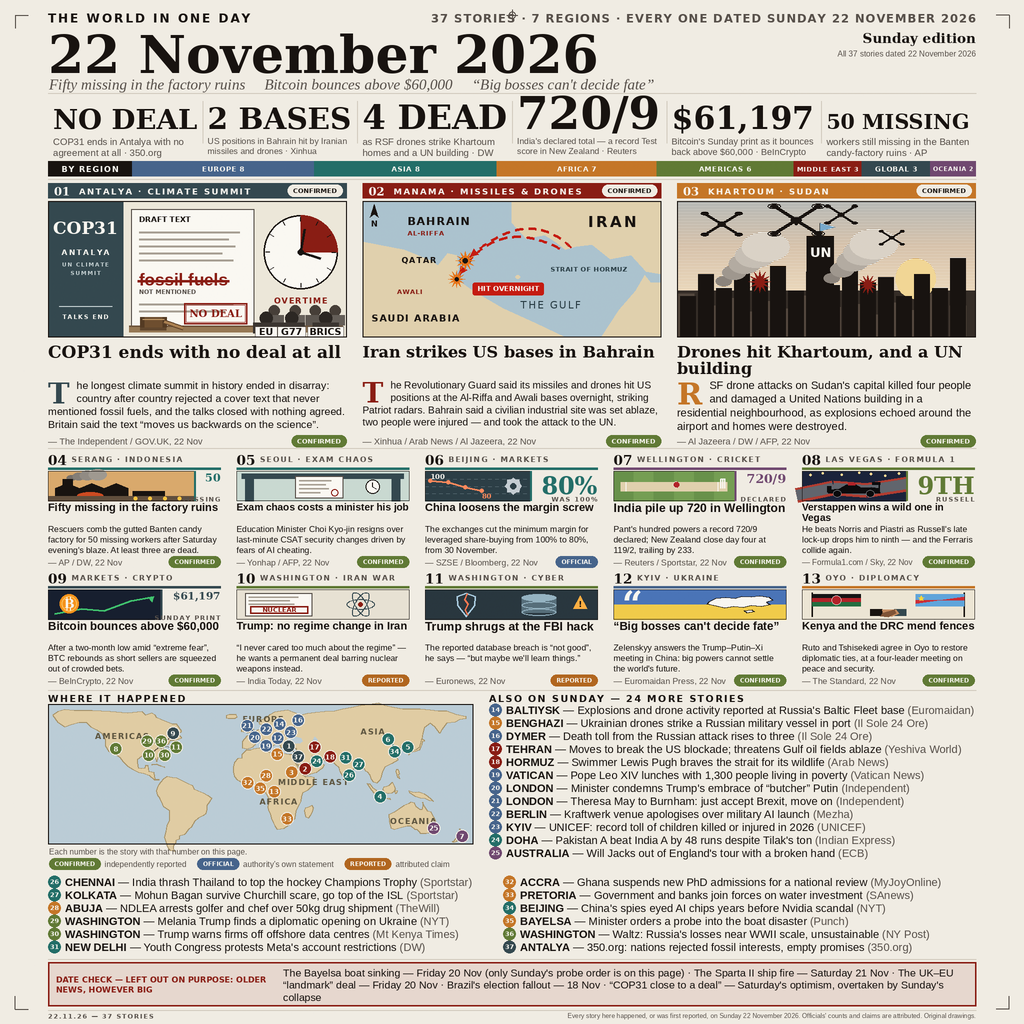
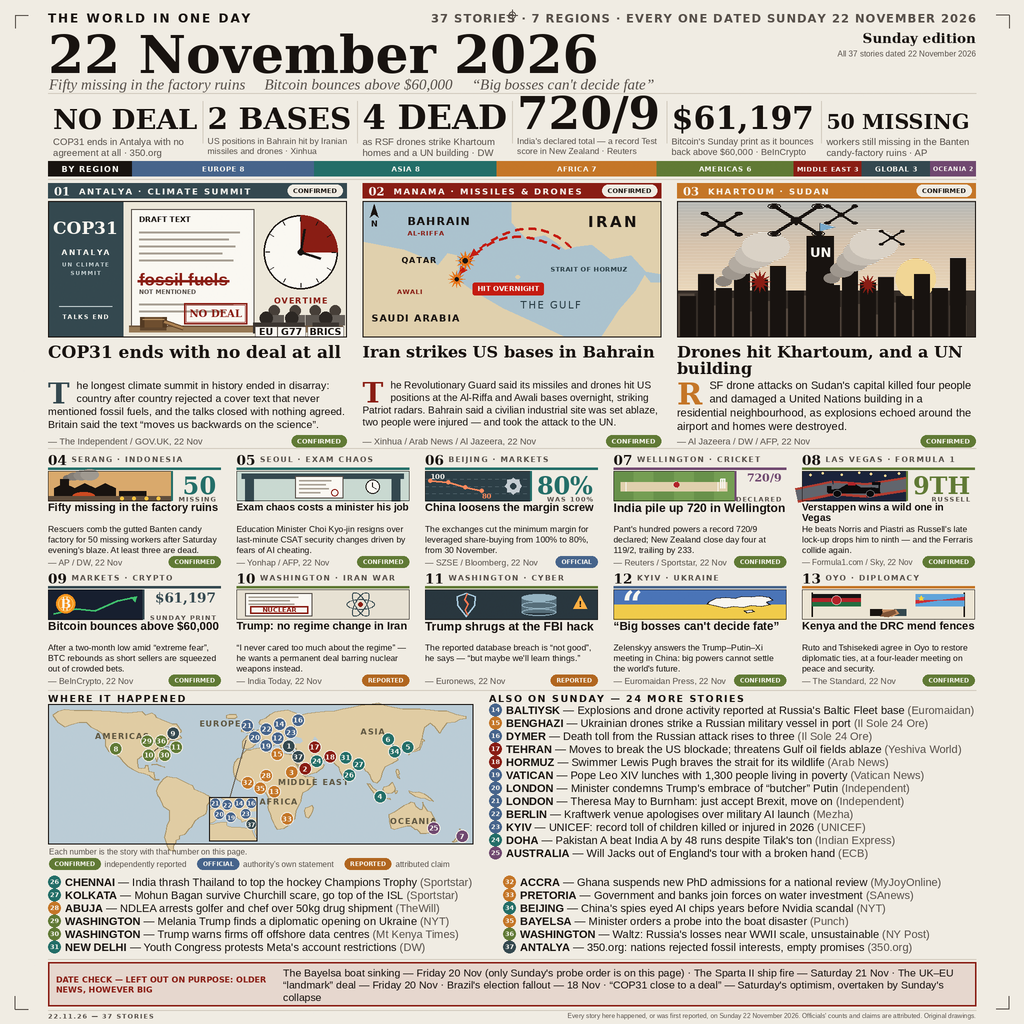
Add files via upload

diff --git a/build.py b/build.py
@@ -58,6 +58,18 @@ two impact bursts are separated, one centred on each base.
 Story content is unchanged apart from the strap's new words,
 which are themselves frozen card headlines.
 
+Version 8 applies exactly two panel fixes to v7, layout only.
+The scene-first stat blocks on cards 04 and 09 were narrower
+than their own caption words, so MISSING and SUNDAY PRINT
+spilled over the scene bands and clipped; those two blocks are
+widened just enough to hold their captions with padding, and
+all stat text now sits 9px inside the card's right edge. On
+the map, the EUROPE label moves into the empty North Atlantic,
+clear of the pins that covered it, and the eight clustered
+Europe pins are redrawn spread out in a zoom inset over the
+empty South Atlantic, tied to the cluster by a thin connector
+line. Story content is unchanged.
+
 The page is drawn programmatically with Pillow at 2048x2048
 (entry-master.png) and downscaled to the 1024x1024 entry.png that
 main.py ships. Every text block is measured and fitted into its zone;
@@ -1403,12 +1415,97 @@ SEA_BITES = [
 
 MAP_LAND = (226, 206, 164)
 MAP_COAST = (168, 148, 106)
-MAP_LABELS = [("AMERICAS", -110, 48), ("EUROPE", 8, 63),
+MAP_LABELS = [("AMERICAS", -110, 48), ("EUROPE", -28, 59),
               ("ASIA", 100, 52), ("AFRICA", 21, -10),
               ("MIDDLE EAST", 50, 7.5), ("OCEANIA", 134, -27)]
+# v8: EUROPE rides in the empty North Atlantic — at its old seat
+# (8, 63) the relaxed pins sat on the word and clipped it.
 
 
-def draw_map(d, x, y, w_, h):
+# v8: the Europe inset. On the main map the eight clustered pins
+# (14/16/19/20/21/22/23/37) relax into one clump however the leader
+# lines fall; the inset redraws just those pins, spread out over a
+# zoom of their own coastline, in a box over the empty South
+# Atlantic (panel-relative seat verified clear of land and of every
+# relaxed main pin), tied to the cluster by a thin connector line.
+EUROPE_INSET_PINS = (14, 16, 19, 20, 21, 22, 23, 37)
+INSET_BOX = (322, 186, 96, 88)    # panel-relative x, y, w, h —
+                                  # right edge clears the AFRICA
+                                  # label's first letter by 5px
+INSET_LON0 = -6                   # the zoom window's west edge
+INSET_LAT_TOP = 59.5              # … and its north edge
+INSET_SCALE = 96 / 43             # px per degree, both axes
+
+
+def draw_europe_inset(img, d, x, y):
+    ix, iy = x + INSET_BOX[0], y + INSET_BOX[1]
+    iw, ih = INSET_BOX[2], INSET_BOX[3]
+
+    def Q(lon, lat):
+        return ((lon - INSET_LON0) * INSET_SCALE,
+                (INSET_LAT_TOP - lat) * INSET_SCALE)
+
+    sub = Image.new("RGB", (iw, ih), OCEAN)
+    sd = ImageDraw.Draw(sub)
+    for poly in COAST:
+        pts = [Q(lon, lat) for lon, lat in poly]
+        sd.polygon(pts, fill=MAP_LAND)
+        sd.line(pts + [pts[0]], fill=MAP_COAST, width=1)
+    for poly in SEA_BITES:
+        sd.polygon([Q(lon, lat) for lon, lat in poly], fill=OCEAN)
+    # the clustered pins, relaxed apart inside the box exactly as
+    # the main map relaxes its own — smaller radius, tighter cap
+    anchors = {n: Q(*PINS[n]) for n in EUROPE_INSET_PINS}
+    pos = dict(anchors)
+    nums = sorted(EUROPE_INSET_PINS)
+    R = 11
+    for _ in range(90):
+        moved = False
+        for i, a in enumerate(nums):
+            for b_ in nums[i + 1:]:
+                ax_, ay_ = pos[a]
+                bx_, by_ = pos[b_]
+                dx, dy = bx_ - ax_, by_ - ay_
+                dist = math.hypot(dx, dy)
+                if dist < 2 * R + 2:
+                    if dist < 0.01:
+                        dx, dy, dist = 1.0, 0.3, math.hypot(1.0, 0.3)
+                    push = (2 * R + 2 - dist) / 2
+                    ux, uy = dx / dist, dy / dist
+                    pos[a] = (ax_ - ux * push, ay_ - uy * push)
+                    pos[b_] = (bx_ + ux * push, by_ + uy * push)
+                    moved = True
+        for n in nums:
+            ax_, ay_ = anchors[n]
+            px_, py_ = pos[n]
+            dx, dy = px_ - ax_, py_ - ay_
+            dd = math.hypot(dx, dy)
+            if dd > 26:
+                px_, py_ = ax_ + dx / dd * 26, ay_ + dy / dd * 26
+            pos[n] = (min(max(px_, R + 1), iw - R - 1),
+                      min(max(py_, R + 1), ih - R - 1))
+        if not moved:
+            break
+    pf = dsans_b(12)
+    for n in nums:
+        ax_, ay_ = anchors[n]
+        px_, py_ = pos[n]
+        if math.hypot(px_ - ax_, py_ - ay_) > 4:
+            sd.line([ax_, ay_, px_, py_], fill=(96, 86, 72), width=1)
+            sd.ellipse([ax_ - 2, ay_ - 2, ax_ + 2, ay_ + 2],
+                       fill=REGION_COLORS[PIN_REGION[n]], outline=PAPER,
+                       width=1)
+    for n in nums:
+        px_, py_ = pos[n]
+        sd.ellipse([px_ - R, py_ - R, px_ + R, py_ + R],
+                   fill=REGION_COLORS[PIN_REGION[n]], outline=PAPER,
+                   width=2)
+        sd.text((px_, py_), str(n), font=pf, fill=WHITE, anchor="mm")
+    img.paste(sub, (ix, iy))
+    d.rectangle([ix, iy, ix + iw, iy + ih], outline=INK, width=2)
+
+
+def draw_map(d, x, y, w_, h, img):
     """World map: drawn coastline polygons in a deeper land tone on
     the ocean panel, region labels on the landmasses, and the pins
     at their true lon/lat anchors — where pins would overlap, the
@@ -1432,6 +1529,14 @@ def draw_map(d, x, y, w_, h):
         tw = tracked_width(d, name, lf, 2)
         _register(f"map label {name}", tw, w_)
         draw_tracked(d, cx - tw / 2, cy - 8, name, lf, 2, (94, 86, 64))
+    # v8: the Europe inset in the South Atlantic, tied to the
+    # cluster's south-west rim off Brittany by a thin connector in
+    # the leader-line colour; drawn before the pins, so the line
+    # passes quietly under them, and the inset box covers its foot
+    ex, ey = P(-6, 44)
+    d.line([x + INSET_BOX[0] + 42, y + INSET_BOX[1], ex, ey],
+           fill=(96, 86, 72), width=2)
+    draw_europe_inset(img, d, x, y)
     # pins: relax overlapping circles apart (deterministic order),
     # never more than 44px from the anchor, never off the panel
     anchors = {num: P(lon, lat) for num, (lon, lat) in PINS.items()}
@@ -1676,6 +1781,16 @@ def render():
                 # about three-fifths, the scene takes at least 65%
                 # of the band; the stat strip keeps the big figure
                 block_w = min(int(block_w * 0.6), card_w - 225)
+            if card["num"] in (4, 9):
+                # v8: the shrunken block was narrower than its own
+                # caption word, so MISSING / SUNDAY PRINT spilled
+                # left over the scene band and clipped against its
+                # bottom edge. Widen the block just enough to hold
+                # the caption with padding on both sides (the
+                # figures themselves stay in the masthead strip).
+                cap0 = CARD_STAT[card["num"]][1]
+                cw0 = tracked_width(d, cap0, dsans_b(13), 2)
+                block_w = max(block_w, int(cw0) + 25)
         draw_card_band(d, x, band_y, card_w - block_w, 60, card)
         if block_w:
             d.rectangle([x + card_w - block_w, band_y, x + card_w,
@@ -1686,17 +1801,20 @@ def render():
             big, capword = CARD_STAT[card["num"]]
             if card["num"] in (4, 7, 9):
                 bf = fit_oneline(d, f"card{card['num']} stat", big,
-                                 serif_b, 48, 16, block_w - 22)
+                                 serif_b, 48, 16, block_w - 31)
             else:
                 bf = fit_oneline(d, f"card{card['num']} stat", big,
                                  serif_b, 48, 28, card_w - 60)
             bw2 = d.textlength(big, font=bf)
-            d.text((x + card_w - bw2, y + 38), big, font=bf, fill=col)
+            # v8: stat text sits 9px inside the card's right edge,
+            # never flush against it
+            d.text((x + card_w - 9 - bw2, y + 38), big, font=bf,
+                   fill=col)
             cf2 = fit_tracked(d, f"card{card['num']} stat caption",
                               capword, dsans_b, 13, 10, 2, card_w - 60)
             cw2 = tracked_width(d, capword, cf2, 2)
-            draw_tracked(d, x + card_w - cw2, y + 86, capword, cf2, 2,
-                         MID)
+            draw_tracked(d, x + card_w - 9 - cw2, y + 86, capword,
+                         cf2, 2, MID)
         hf, hlines, hlead = fit_box(d, f"card{card['num']} headline",
                                     card["headline"], lsans_b, 27, 19,
                                     card_w, 42, 1.04)
@@ -1727,7 +1845,7 @@ def render():
     hf2 = fit_tracked(d, "also heading", ah, dsans_b, 19, 15, 3, ba_w)
     draw_tracked(d, ba_x, hy, ah, hf2, 3, INK)
     ry = hy + 22
-    draw_map(d, M, ry, 850, 280)
+    draw_map(d, M, ry, 850, 280, img)
     cap = "Each number is the story with that number on this page."
     cf = fit_oneline(d, "map caption", cap, lsans, 16, 13, 848)
     d.text((M + 2, ry + 286), cap, font=cf, fill=MID)
